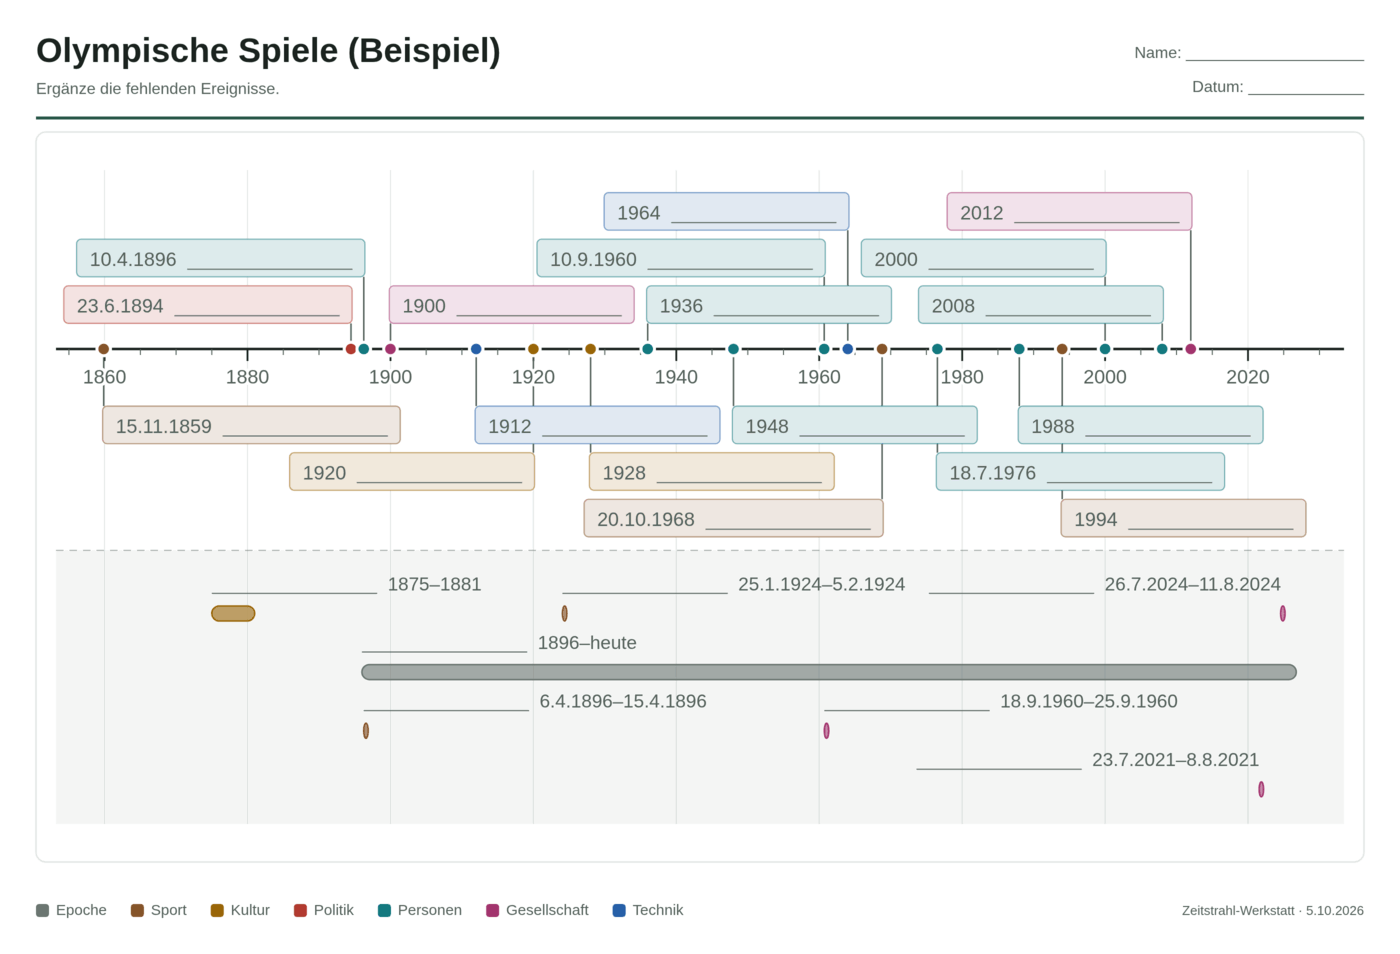
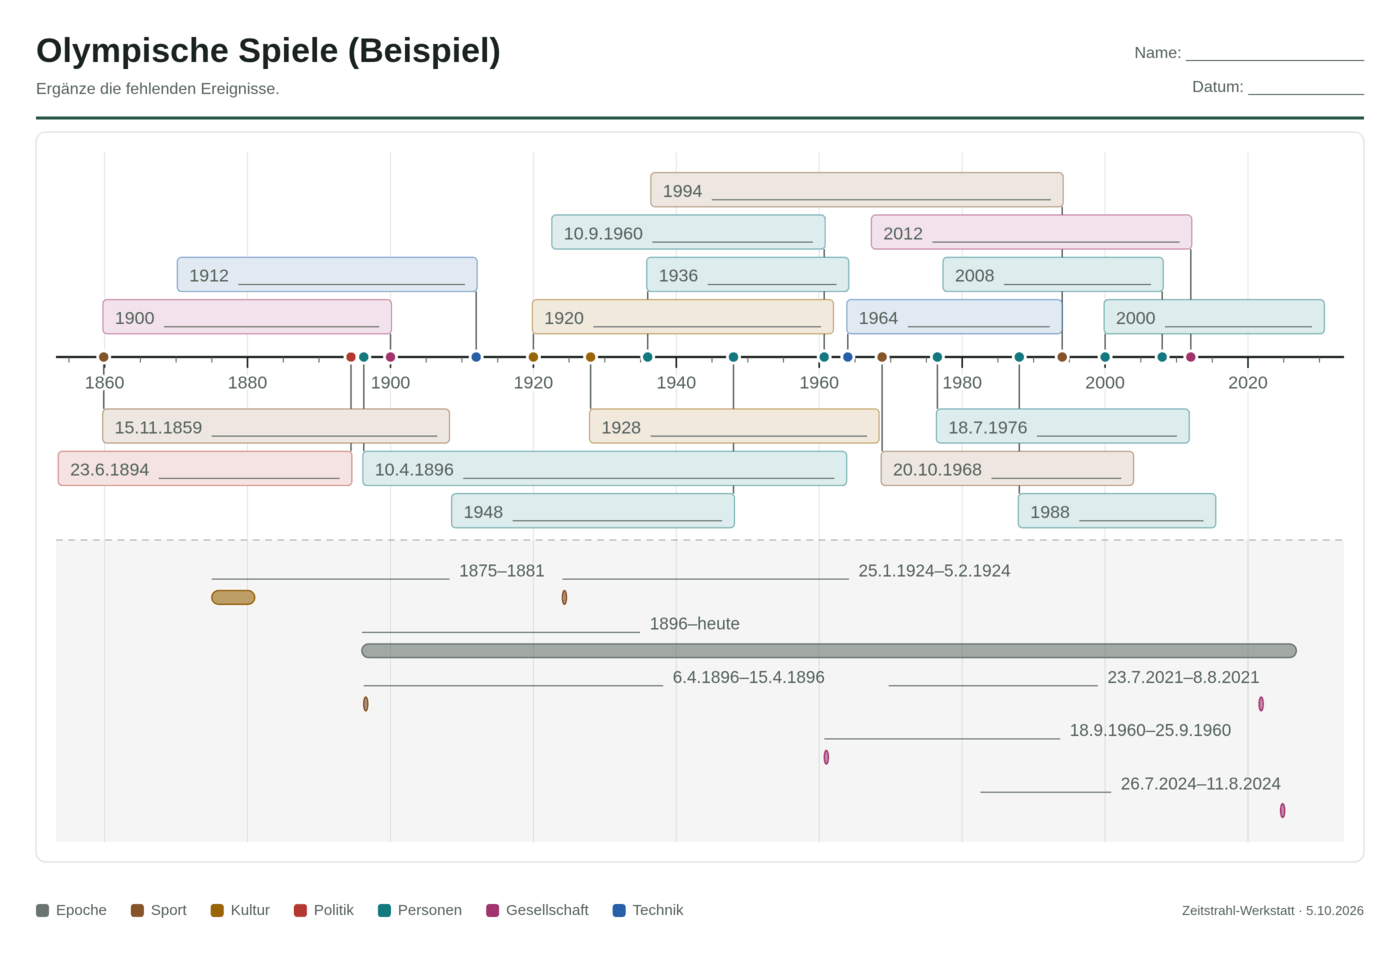
Lückenbild mit derselben Anordnung wie das Bild
Die Kästen im Lückenbild waren schmaler, weil nur das Datum darin
steht. Dadurch verteilte das Layout die Fähnchen anders als im Bild.
Jetzt hängen die Breiten nicht mehr vom Lückenbild ab, die Linie füllt
den Platz des Titels. Ein Test prüft, dass beide dieselben Kästen
haben. README-Bild und Text dazu angepasst.

Claude-Session: https://claude.ai/code/session_01HDsg7VMRdxuSBuCStmp5Ba

diff --git a/js/layout.js b/js/layout.js
@@ -40,15 +40,16 @@
       barGap: 6 * s,
       barFont: 14 * s,
       barDate: 12.5 * s,
-      blankW: 110 * s,
     };
   }
 
   const ICON_W = 20; // Platz für das Bild-Symbol (bei Maßstab 1)
 
-  function pointLabelW(it, M, measure, fam, blank) {
-    const title = blank ? M.blankW : measure(it.title, 700, M.labelFont, fam);
-    const icon = it.img && !blank ? ICON_W * M.s : 0;
+  // Die Breiten hängen nie davon ab, ob ein Lückenbild entsteht: Lückenbild und Bild haben
+  // dieselbe Anordnung, im Lückenbild steht nur eine Linie an der Stelle des Titels.
+  function pointLabelW(it, M, measure, fam) {
+    const title = measure(it.title, 700, M.labelFont, fam);
+    const icon = it.img ? ICON_W * M.s : 0;
     return 8 * M.s + measure(it.shortDate, 400, M.dateFont, fam) + 7 * M.s + title + icon + 9 * M.s;
   }
 
@@ -63,9 +64,9 @@
       + `<circle cx="${f(x + 9.5 * s)}" cy="${f(y + 3 * s)}" r="${f(1.1 * s)}" style="fill:${color};stroke:none"/></g>`;
   }
 
-  function spanLabelParts(it, M, measure, fam, blank) {
+  function spanLabelParts(it, M, measure, fam) {
     return {
-      tW: blank ? M.blankW : measure(it.title, 700, M.barFont, fam),
+      tW: measure(it.title, 700, M.barFont, fam),
       dW: measure(it.shortDate, 400, M.barDate, fam),
     };
   }
@@ -145,7 +146,7 @@
 
   /* ---------- Layout ---------- */
 
-  // o: { scale, family, measure, blank }
+  // o: { scale, family, measure }
   function layout(items, view, W, o) {
     const M = metricsFor(o.scale);
     const s = M.s;
@@ -170,7 +171,7 @@
     const points = items.filter((i) => i.kind === 'point').sort((a, b) => a.start - b.start || a.line - b.line);
     for (const it of points) {
       const x = X(it.start);
-      const w = pointLabelW(it, M, measure, fam, o.blank);
+      const w = pointLabelW(it, M, measure, fam);
       if (x + w < -20 || x > W + 20) continue;
       const canFlip = x - w >= 0 && x + w <= W;
       evs.push({ it, x, w, flip: x + w > W && x - w >= 0, canFlip, below: false, dW: measure(it.shortDate, 400, M.dateFont, fam), lane: 0, y: 0 });
@@ -232,7 +233,7 @@
       const x0 = X(it.start);
       const x1 = X(it.end);
       if (x1 < -2 || x0 > W + 2) continue;
-      const { tW, dW } = spanLabelParts(it, M, measure, fam, o.blank);
+      const { tW, dW } = spanLabelParts(it, M, measure, fam);
       const lw = tW + 7 * s + dW;
       let labelX = Math.max(x0, 0);
       if (labelX + lw > W) labelX = Math.max(0, Math.min(x1, W) - lw);
@@ -349,7 +350,7 @@
       if (o.blank) {
         const bx = tx + e.dW + 7 * s;
         text = `<text x="${f(tx)}" y="${f(ty)}" style="font-size:${f(M.dateFont)}px;fill:${paint.soft}">${esc(it.shortDate)}</text>`
-          + `<line x1="${f(bx)}" y1="${f(ty + 2 * s)}" x2="${f(bx + M.blankW)}" y2="${f(ty + 2 * s)}" style="stroke:${paint.soft};stroke-width:1"/>`;
+          + `<line x1="${f(bx)}" y1="${f(ty + 2 * s)}" x2="${f(x + e.w - 9 * s)}" y2="${f(ty + 2 * s)}" style="stroke:${paint.soft};stroke-width:1"/>`;
       } else {
         text = `<text x="${f(tx)}" y="${f(ty)}">`
           + `<tspan style="font-size:${f(M.dateFont)}px;fill:${paint.soft}">${esc(it.shortDate)}</tspan>`

diff --git a/tests/layout.test.js b/tests/layout.test.js
@@ -24,7 +24,7 @@ function test(name, fn) {
 }
 
 const measure = (text, weight, size) => text.length * size * 0.55;
-const opts = (extra) => Object.assign({ scale: 1, family: 'x', measure, blank: false }, extra);
+const opts = (extra) => Object.assign({ scale: 1, family: 'x', measure }, extra);
 const items = (src) => P.parseSource(src, NOW).items;
 const PAINT = { ink: '#111', soft: '#666', grid: '#ddd', sheet: '#fff', accent: '#c00', cat: () => '#08f' };
 
@@ -181,10 +181,17 @@ test('Titel werden im SVG sicher dargestellt', () => {
 
 test('Lückenbild zeigt Daten, aber keine Titel', () => {
   const list = items('1517 | Thesenanschlag\n1524–1526 | Bauernkrieg');
-  const g = L.layout(list, { v0: 1500, v1: 1540 }, 800, opts({ blank: true }));
+  const g = L.layout(list, { v0: 1500, v1: 1540 }, 800, opts());
   const svg = L.svgBody(g, PAINT, { blank: true });
   assert.ok(svg.includes('1517') && svg.includes('1524–1526'));
   assert.ok(!svg.includes('Thesenanschlag') && !svg.includes('Bauernkrieg'));
+});
+
+test('Lückenbild hat dieselbe Anordnung wie das Bild', () => {
+  const list = items('1517 | Thesenanschlag\n1521 | Reichstag zu Worms\n1522 | Wartburg\n1524–1526 | Bauernkrieg\n1530 | Augsburger Bekenntnis');
+  const g = L.layout(list, { v0: 1510, v1: 1535 }, 500, opts());
+  const rects = (svg) => svg.match(/<rect [^>]*>/g).join('\n');
+  assert.equal(rects(L.svgBody(g, PAINT, { blank: true })), rects(L.svgBody(g, PAINT, {})));
 });
 
 test('„heute“ erscheint nur, wenn es im Ausschnitt liegt', () => {

diff --git a/js/app.js b/js/app.js
@@ -1059,7 +1059,7 @@
     $('empty').hidden = !isEmpty;
     if (isEmpty) { stage.textContent = ''; return; } // ohne Einträge keine Achse, nur der Hinweis
     const items = shownItems();
-    const draw = (scale) => Layout.layout(items, view, W, { scale, family: FAM_SCREEN, measure, blank: false });
+    const draw = (scale) => Layout.layout(items, view, W, { scale, family: FAM_SCREEN, measure });
     let g = draw(present ? PRESENT_SCALE : 1);
     // Im Tafelbild gibt es keinen Platz zum Scrollen: Passt der Zeitstrahl nicht auf den
     // Beamer (z. B. 1024 × 768), wird er so weit verkleinert, bis alles sichtbar ist.
@@ -1518,7 +1518,7 @@
     const room = bottom - top - 40;
 
     // Größten Maßstab suchen, bei dem alles auf die Seite passt
-    const draw = (sc) => Layout.layout(items, view, inner, { scale: sc, family: FAM_EXPORT, measure, blank });
+    const draw = (sc) => Layout.layout(items, view, inner, { scale: sc, family: FAM_EXPORT, measure });
     let lo = 0.8;
     let hi = 1.7;
     let g = draw(lo);

diff --git a/README.md b/README.md
@@ -110,12 +110,12 @@ Der Browser merkt sich Daten getrennt je Port. Nach einem Wechsel holt die Lehrk
 | Details | Klick auf einen Eintrag zeigt Datum, „vor … Jahren“, Dauer, Beschreibung, Bild, Verfasser und Bildquelle. Bilder lassen sich dort auch selbst hinzufügen. |
 | Tafelbild | Vollbild für den Beamer, große Schrift. **Schrittweise aufdecken** blättert in zeitlicher Reihenfolge (Pfeiltasten, Leertaste oder Presenter). |
 | Farben | Automatisch, hell oder „Tafel“ (dunkel mit Kreidefarben), umschaltbar über den Knopf ◐ neben „Datei“ und im Tafelbild. |
-| Arbeitsblatt | Sichtbaren Ausschnitt als PNG sichern oder über **Datei → Zeitstrahl drucken** direkt auf A4 quer drucken. Bild und Druck sehen gleich aus: Kopf mit Titel, Rahmen, Kategorien und Datum. Das **Lückenbild** zeigt nur die Daten mit Leerzeilen zum Ausfüllen. |
+| Arbeitsblatt | Sichtbaren Ausschnitt als PNG sichern oder über **Datei → Zeitstrahl drucken** direkt auf A4 quer drucken. Bild und Druck sehen gleich aus: Kopf mit Titel, Rahmen, Kategorien und Datum. Das **Lückenbild** zeigt an denselben Stellen nur die Daten mit Leerzeilen zum Ausfüllen, so passt das Bild als Lösung dazu. |
 | Übung | **Was kam zuerst?** im Tafelbild: Die Ereignisse stehen gemischt, die Klasse sortiert sie per Pfeil oder Ziehen, **Prüfen** und **Lösung zeigen** helfen weiter. |
 | Schüler-Zeitstrahlen | Thema und Arbeitsauftrag vorgeben, Abgabe beenden, je Gruppe eine Rückmeldung schreiben, Abgaben mit Stand und Code im Überblick, im Tafelbild nacheinander zeigen, in eigene Zeitstrahlen kopieren. |
 | Speichern | Automatisch im Browser und, wenn der Server läuft, zusätzlich je Zeitstrahl als Datei in `daten/zeitstrahlen/` mit Tageskopien. Alle sichern als ZIP. Einlesen von .txt, .json, .csv und .zip. |
 
-Fürs Arbeitsblatt: links das gesicherte Bild, rechts das Lückenbild. Gedruckt sehen beide genauso aus.
+Fürs Arbeitsblatt: links das gesicherte Bild, rechts das Lückenbild. Das Lückenbild hat dieselbe Anordnung, statt der Titel stehen dort Linien, und oben ist Platz für Name und Datum. Ausgedruckt sehen beide genauso aus wie hier.
 
 <img src="docs/bilder/arbeitsblatt.png" width="49%" alt="Gesichertes Bild des Zeitstrahls mit Titel, Rahmen, Kategorien und Datum"> <img src="docs/bilder/lueckenbild.png" width="49%" alt="Lückenbild: nur die Daten, daneben Leerzeilen zum Ausfüllen, oben Name und Datum">
 
